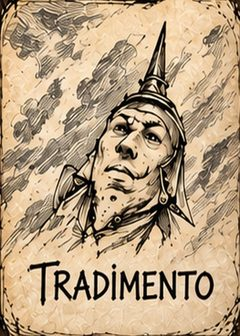
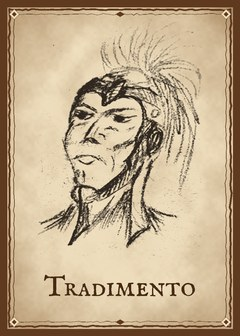
App Alethi: carte disegnate da Giovanni con cornice Inchiostro, in italiano e in inglese
Claude-Session: https://claude.ai/code/session_01PzbYS5LykzQyEZuEdpN7Wz

diff --git a/app/app.js b/app/app.js
@@ -29,6 +29,7 @@ const NAV_LANG = (navigator.language || 'it').toLowerCase();
 let lang = load(LANG) || (NAV_LANG.startsWith('it') ? 'it' : 'en');
 window.AlethiLang = () => lang;
 const L = (it, en) => lang === 'en' ? en : it;
+const cimg = i => (lang === 'en' ? 'img/en/c' : 'img/c') + i + '.jpg';
 const FLAG = {
   it: '<svg viewBox="0 0 3 2" aria-hidden="true"><rect width="1" height="2" fill="#009246"/><rect x="1" width="1" height="2" fill="#fff"/><rect x="2" width="1" height="2" fill="#ce2b37"/></svg>',
   en: '<svg viewBox="0 0 60 30" aria-hidden="true"><clipPath id="ukS"><path d="M0,0 v30 h60 v-30 z"/></clipPath><clipPath id="ukT"><path d="M30,15 h30 v15 z v15 h-30 z h-30 v-15 z v-15 h30 z"/></clipPath><g clip-path="url(#ukS)"><path d="M0,0 v30 h60 v-30 z" fill="#012169"/><path d="M0,0 L60,30 M60,0 L0,30" stroke="#fff" stroke-width="6"/><path d="M0,0 L60,30 M60,0 L0,30" clip-path="url(#ukT)" stroke="#C8102E" stroke-width="4"/><path d="M30,0 v30 M0,15 h60" stroke="#fff" stroke-width="10"/><path d="M30,0 v30 M0,15 h60" stroke="#C8102E" stroke-width="6"/></g></svg>'
@@ -426,7 +427,7 @@ function boardGrid(col, T, clickable) {
       const tg = T.cards && T.cards[k];
       const isHl = ui.hl && ui.hl.board === col && ui.hl.k === k;
       h += `<div class="card ${tg ? 'tgt' : ''} ${isHl ? 'hl' : ''} ${clickable && T.cards && Object.keys(T.cards).length && !tg ? 'dim' : ''}" data-card="${k}" style="${pos}">
-        <img class="art" src="img/c${cd.idx}.jpg" alt="${E.CARD_NAME[E.cardType(cd.idx)]}">
+        <img class="art" src="${cimg(cd.idx)}" alt="${E.CARD_NAME[E.cardType(cd.idx)]}">
         ${cd.cr ? `<span class="cr"><img src="img/crystal.png" alt="">${cd.cr}</span>` : ''}
         ${p.sel === k ? `<img class="anim" src="img/anim_${LOW[col]}.png" alt="Animutante">` : ''}</div>`;
     } else if (T.empty && T.empty[k]) h += `<div class="card empty tgt" data-empty="${k}" style="${pos}"></div>`;
@@ -442,7 +443,7 @@ function renderBoard(T) {
   el.innerHTML = b.html;
   el._T = showT; el._col = col;
   $('boardTitle').textContent = (s.play.filter(c => !s.P[c].ai).length > 1 ? L('Plancia di ' + E.cname(col), E.cname(col) + "'s board") : L('La tua plancia', 'Your board')) + ' · ' + p.house + (p.fab ? ' · Fabrial +' + p.fab : '');
-  $('personal').innerHTML = p.personal.map(i => `<img src="img/c${i}.jpg" data-pc="${i}" alt="">`).join('');
+  $('personal').innerHTML = p.personal.map(i => `<img src="${cimg(i)}" data-pc="${i}" alt="">`).join('');
 }
 $('board').addEventListener('click', e => {
   const el = $('board'); const T = el._T; const col = el._col;
@@ -461,7 +462,7 @@ function renderMarket(T) {
     const idx = m.slots[i]; const tg = T.slots[i];
     const isHl = ui.hl && ui.hl.slot === i;
     h += `<div class="mslot"><span class="cost">${4 - i} <img src="img/crystal.png" style="height:13px;vertical-align:-2px" alt=""></span>` +
-      (idx != null ? `<div class="card ${tg ? 'tgt' : ''} ${isHl ? 'hl' : ''}" data-slot="${i}"><img class="art" src="img/c${idx}.jpg" alt=""></div>` : '<div class="card empty"></div>') + '</div>';
+      (idx != null ? `<div class="card ${tg ? 'tgt' : ''} ${isHl ? 'hl' : ''}" data-slot="${i}"><img class="art" src="${cimg(idx)}" alt=""></div>` : '<div class="card empty"></div>') + '</div>';
   }
   $('market').innerHTML = h; $('market')._T = T;
   $('deckInfo').textContent = '';
@@ -488,7 +489,7 @@ function sheetDo(map) { $('sheet')._do = map; }
 
 function infoCard(idx) {
   const t = E.cardType(idx);
-  openSheet(`<div class="cardview"><img src="img/c${idx}.jpg" alt=""><div><h3>${E.CARD_NAME[t]}</h3><p>${E.CARD_DESC[t]}</p>
+  openSheet(`<div class="cardview"><img src="${cimg(idx)}" alt=""><div><h3>${E.CARD_NAME[t]}</h3><p>${E.CARD_DESC[t]}</p>
     <p style="color:var(--muted);font-size:13px">${E.isBoardCard(t) ? L('Carta azione: va sulla plancia.', 'Action card: goes on your board.') : L('Carta personale.', 'Personal card.')}</p></div></div>
     <div class="sheet-btns"><button data-do="x">${L('Chiudi', 'Close')}</button></div>`);
   sheetDo({ x: closeSheet });
@@ -503,7 +504,7 @@ function cardSheet(col, k, canTry) {
   if (t === 'PON') extra = L('Con ' + cd.cr + ' cristalli posi ' + cd.cr + ' ponti.', 'With ' + cd.cr + ' crystals you lay ' + cd.cr + ' bridges.');
   if (t === 'ATT') extra = L('Con ' + cd.cr + ' cristalli fai fino a ' + cd.cr + ' spostamenti.', 'With ' + cd.cr + ' crystals you make up to ' + cd.cr + ' moves.');
   if (t === 'COM') extra = L('Con ' + cd.cr + ' cristalli. Attenzione: attivare una carta spende tutti i suoi cristalli.', 'With ' + cd.cr + ' crystals. Note: activating a card spends all its crystals.');
-  openSheet(`<div class="cardview"><img src="img/c${cd.idx}.jpg" alt=""><div><h3>${E.CARD_NAME[t]}</h3><p>${E.CARD_DESC[t]}</p>
+  openSheet(`<div class="cardview"><img src="${cimg(cd.idx)}" alt=""><div><h3>${E.CARD_NAME[t]}</h3><p>${E.CARD_DESC[t]}</p>
     ${cd.cr ? `<p><b>${extra}</b></p>` : ''}${why ? `<p class="reason">${why}</p>` : ''}</div></div>
     <div class="sheet-btns">${mine ? `<button class="go" data-do="go" ${why ? 'disabled' : ''}>${L('Attiva', 'Activate')} (${cd.cr} ${L('cristalli', 'crystals')})</button>` : ''}<button data-do="x">${L('Chiudi', 'Close')}</button></div>`);
   sheetDo({ x: closeSheet, go: () => { if (!why) act(() => E.activate(col, k)); } });

diff --git a/app/sw.js b/app/sw.js
@@ -1,6 +1,6 @@
 // Alethi: funziona anche offline. Cambiare VERSION a ogni aggiornamento.
-const VERSION = 'alethi-v6';
-const FILES = ['./', 'index.html', 'style.css', 'engine.js', 'ai.js', 'app.js', 'manifest.webmanifest', "img/abissale.png","img/anim_blue.png","img/anim_purple.png","img/anim_red.png","img/anim_yellow.png","img/apple-touch-icon.png","img/back.jpg","img/bridge.png","img/bridge4.png","img/c0.jpg","img/c1.jpg","img/c10.jpg","img/c11.jpg","img/c12.jpg","img/c13.jpg","img/c14.jpg","img/c15.jpg","img/c16.jpg","img/c17.jpg","img/c18.jpg","img/c19.jpg","img/c2.jpg","img/c3.jpg","img/c4.jpg","img/c5.jpg","img/c6.jpg","img/c7.jpg","img/c8.jpg","img/c9.jpg","img/crystal.png","img/disc_blue.png","img/disc_purple.png","img/disc_red.png","img/disc_yellow.png","img/heart.png","img/icon-192.png","img/icon-512.png","img/icon-maskable.png","img/node_1.png","img/node_2.png","img/node_3.png","img/node_4.png","img/node_5.png","img/node_6.png","img/parshendi.png","img/plateau_1.jpg","img/plateau_2.jpg","img/plateau_3.jpg","img/plateau_4.jpg","img/plateau_5.jpg","img/plateau_6.jpg","img/shield.png","img/war_blue.png","img/war_purple.png","img/war_red.png","img/war_yellow.png"];
+const VERSION = 'alethi-v7';
+const FILES = ['./', 'index.html', 'style.css', 'engine.js', 'ai.js', 'app.js', 'manifest.webmanifest', "img/abissale.png","img/anim_blue.png","img/anim_purple.png","img/anim_red.png","img/anim_yellow.png","img/apple-touch-icon.png","img/back.jpg","img/bridge.png","img/bridge4.png","img/c0.jpg","img/c1.jpg","img/c10.jpg","img/c11.jpg","img/c12.jpg","img/c13.jpg","img/c14.jpg","img/c15.jpg","img/c16.jpg","img/c17.jpg","img/c18.jpg","img/c19.jpg","img/c2.jpg","img/c3.jpg","img/c4.jpg","img/c5.jpg","img/c6.jpg","img/c7.jpg","img/c8.jpg","img/c9.jpg","img/en/c0.jpg","img/en/c1.jpg","img/en/c2.jpg","img/en/c3.jpg","img/en/c4.jpg","img/en/c5.jpg","img/en/c6.jpg","img/en/c7.jpg","img/en/c8.jpg","img/en/c9.jpg","img/en/c10.jpg","img/en/c11.jpg","img/en/c12.jpg","img/en/c13.jpg","img/en/c14.jpg","img/en/c15.jpg","img/en/c16.jpg","img/en/c17.jpg","img/en/c18.jpg","img/en/c19.jpg","img/crystal.png","img/disc_blue.png","img/disc_purple.png","img/disc_red.png","img/disc_yellow.png","img/heart.png","img/icon-192.png","img/icon-512.png","img/icon-maskable.png","img/node_1.png","img/node_2.png","img/node_3.png","img/node_4.png","img/node_5.png","img/node_6.png","img/parshendi.png","img/plateau_1.jpg","img/plateau_2.jpg","img/plateau_3.jpg","img/plateau_4.jpg","img/plateau_5.jpg","img/plateau_6.jpg","img/shield.png","img/war_blue.png","img/war_purple.png","img/war_red.png","img/war_yellow.png"];
 self.addEventListener('install', e => { e.waitUntil(caches.open(VERSION).then(c => c.addAll(FILES)).then(() => self.skipWaiting())); });
 self.addEventListener('activate', e => { e.waitUntil(caches.keys().then(ks => Promise.all(ks.filter(k => k !== VERSION).map(k => caches.delete(k)))).then(() => self.clients.claim())); });
 self.addEventListener('fetch', e => {
